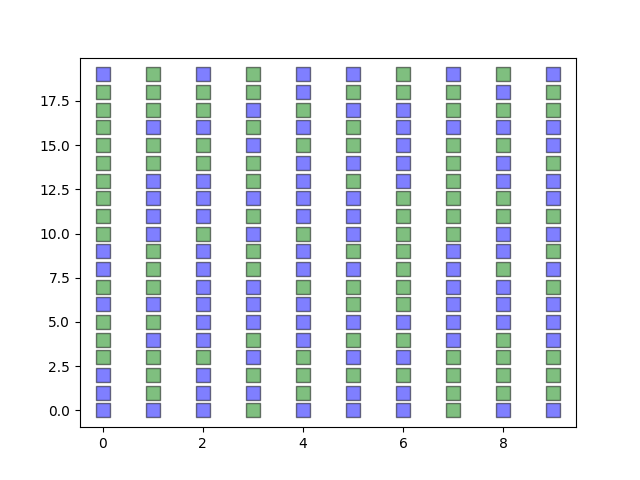
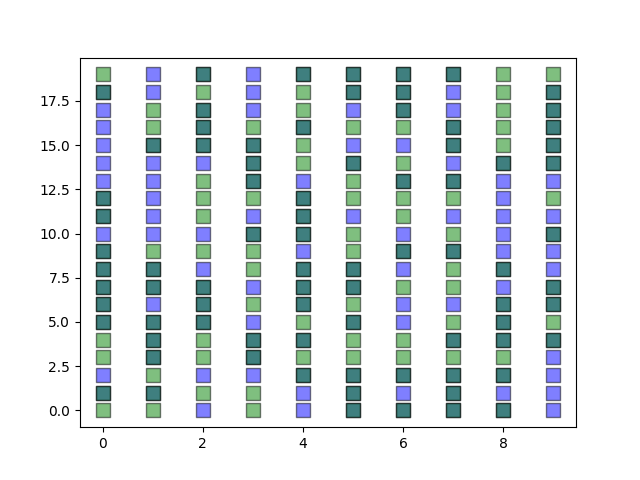
random stuff

diff --git a/plots.py b/plots.py
@@ -5,36 +5,39 @@ from brain import *
 from tensorflow import keras
 import time
 
-def assemblies_and_weights(cap_size=1000, beta=0.1):
-    area = Area(no_classes=10, cap_size=cap_size, n=10000, in_n=784, beta=beta)
+def assemblies_and_weights(cap_size=30, beta=0.1):
+    area = Area(no_classes=10, cap_size=cap_size, n=100, in_n=784, beta=beta)
     (X_train, y_train),(X_test,y_test) = keras.datasets.mnist.load_data()
-    
-    labels = y_train
+    no_data_items = 200
+    labels = y_train[:no_data_items]
     idxs = np.argsort(labels)
     X_train = [X_train[i] for i in idxs]        
     labels = [labels[i] for i in idxs]
 
-    input = np.array([x.flatten for x in X_train])
-    training_y = area.training(input, no_rounds=[6000]*10)
-    
+    input = np.array([x.flatten() for x in X_train])
+    no_of_rounds = [labels.count(z) for z in range(10)]
+
+    training_y = area.training(input, no_rounds=no_of_rounds)
+
+
     # Plotting the assemblies for each class
     res = []
     for y in training_y.values():
-        res.append(np.array(y).reshape(100, 100))
+        res.append(np.array(y).reshape(10, 10))
     
     fig, axes = plt.subplots(2, len(res), figsize=(5 * len(res), 5))
     for i, y in enumerate(res):
-        axes[0,i].imshow(res[i], cmap='binary')
+        axes[0,i].imshow(res[i], cmap='coolwarm', interpolation='nearest')
         axes[0,i].title.set_text(f'Assembly for number: {i}')
 
-    test_index = 15
+    test_index = 20
     number = y_test[test_index]
     data = X_test[test_index]
     predicted_class, assembly = area.predict(data.flatten())
-    assembly = assembly.reshape(100, 100)
+    assembly = assembly.reshape(10, 10)
     for ax in axes[1]:
         ax.axis('off')
-    axes[1, predicted_class].imshow(assembly, cmap='binary')
+    axes[1, predicted_class].imshow(assembly, cmap='coolwarm', interpolation='nearest')
     axes[1, predicted_class].title.set_text(f'Number: {number}, Predicted: {predicted_class}')
     plt.subplots_adjust(hspace=0.5)
     
@@ -163,12 +166,11 @@ if __name__ == '__main__':
     # )
 
     # best_beta = benchmark_param(
-    #     area_callback=lambda i, best_cap_size=best_cap_size: Area(no_classes=10, cap_size=best_cap_size, n=10000, in_n=784, beta=0.1 * i),
+    #     area_callback=lambda i : Area(no_classes=10, cap_size=100, n=1000, in_n=784, beta=0.1 * i),
     #     item_callback=lambda i: 0.1 * i,
     #     name="beta",
     #     no_data_items=200,
     #     no_test_data=50,
-    #     best_cap_size=best_cap_size
     # )
 
     # best_neuron_count = benchmark_param(
@@ -197,11 +199,11 @@ if __name__ == '__main__':
     # )
     
     overlap_plots(
-        Area(p=0.1, no_classes=10, cap_size=60, n=200, in_n=784, beta=0.1),
+        Area(p=0.1, no_classes=10, cap_size=80, n=200, in_n=784, beta=0.1),
         no_data_items=1000
     )
 
-    # assemblies_and_weights(cap_size=1000, beta=0.1)
+    # assemblies_and_weights()
     
     partial_time = time.time() - start
     print(f"Time taken: {partial_time}")

diff --git a/synthetic.py b/synthetic.py
@@ -15,7 +15,7 @@ def test_classes(area, no_classes):
 
 class Tests(unittest.TestCase):
     def setUp(self):
-        self.area = Area(no_classes=2, cap_size=100, n=200, in_n = 200)
+        self.area = Area(no_classes=2, cap_size=140, n=200, in_n = 280)
         self.data = test_classes(self.area, self.area.no_classes)
         self.data_per_class = 20
         self.data = np.repeat(self.data, self.data_per_class, axis=0)
